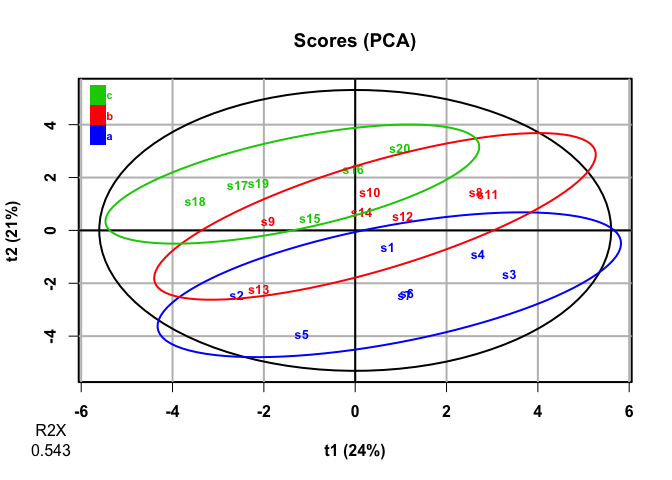
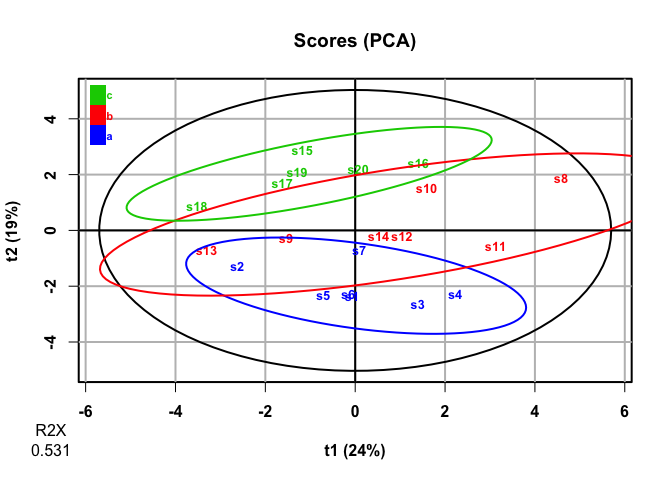
update README

diff --git a/README.md b/README.md
@@ -1,16 +1,15 @@
 
 <!-- README.md is generated from README.Rmd. Please edit that file -->
+<!-- badges: start -->
 
-[![Build
-Status](https://travis-ci.org/Aariq/holodeck.svg?branch=master)](https://travis-ci.org/Aariq/holodeck)
+[![R-CMD-check](https://github.com/Aariq/holodeck/actions/workflows/R-CMD-check.yaml/badge.svg)](https://github.com/Aariq/holodeck/actions/workflows/R-CMD-check.yaml)
 [![codecov](https://codecov.io/gh/Aariq/holodeck/branch/master/graph/badge.svg)](https://codecov.io/gh/Aariq/holodeck)
 [![DOI](https://zenodo.org/badge/167047376.svg)](https://zenodo.org/badge/latestdoi/167047376)
 [![CRAN](https://www.r-pkg.org/badges/version/holodeck)](https://CRAN.R-project.org/package=holodeck)
 ![downloads](http://cranlogs.r-pkg.org/badges/grand-total/holodeck)
-[![AppVeyor build
-status](https://ci.appveyor.com/api/projects/status/github/Aariq/holodeck?branch=master&svg=true)](https://ci.appveyor.com/project/Aariq/holodeck)
+<!-- badges: end -->
 
-# holodeck 0.2.1: A Tidy Interface For Simulating Multivariate Data
+# holodeck: A Tidy Interface For Simulating Multivariate Data
 
 `holodeck` allows quick and simple creation of simulated multivariate
 data with variables that co-vary or discriminate between levels of a
@@ -27,11 +26,10 @@ From CRAN:
 install.packages("holodeck)
 ```
 
-Development version:
+Development version from r-universe:
 
 ``` r
-# install.packages("remotes")
-remotes::install_github("Aariq/holodeck")
+install.packages('holodeck', repos = c('https://aariq.r-universe.dev', 'https://cloud.r-project.org'))
 ```
 
 ## Load packages
@@ -91,33 +89,33 @@ df2 <-
   sim_missing(prop = 0.1) %>% 
   ungroup()
 df2
-#> # A tibble: 20 x 21
+#> # A tibble: 20 × 21
 #>    factor high_cov_1 high_cov_2 high_cov_3 high_cov_4 high_cov_5 high_var_1
 #>    <chr>       <dbl>      <dbl>      <dbl>      <dbl>      <dbl>      <dbl>
-#>  1 a           0.472   -0.362       0.253      0.281       0.247    -1.54  
-#>  2 a          -1.50    -1.65       NA         -1.93       -1.27      1.00  
-#>  3 a           1.13     0.655       0.980      1.41        0.345    -1.90  
-#>  4 a           0.982    0.740       1.16       1.14        0.866     1.71  
-#>  5 a          -0.773   NA          -1.22      -1.21       -1.25     -0.576 
-#>  6 a           0.302    0.130      -0.309      0.0725     NA        NA     
-#>  7 a          -0.117    0.00163     0.0596    -0.542      -0.269     2.87  
-#>  8 b           2.16     2.47       NA          1.62       NA         0.146 
-#>  9 b          -0.268   -0.509      -0.529     -0.842      -1.04     NA     
-#> 10 b           0.609    0.195       0.720      0.930       0.595     0.0765
-#> 11 b           1.81    NA           1.43       1.09        1.39     -0.927 
-#> 12 b           0.954    0.234       0.247      0.248       0.751     2.77  
-#> 13 b          -1.03    -1.24       -1.70      NA          -1.64      1.34  
-#> 14 b          -0.180    0.380       0.177      0.433       0.550     1.20  
-#> 15 c          -0.214   -0.390      -0.476     -0.878      -0.328     3.18  
-#> 16 c           0.827    0.556       0.620      0.491      NA         1.91  
-#> 17 c          -0.399   -0.862      -0.385     -0.935      -0.802    -0.787 
-#> 18 c          -1.09    -1.32       -0.720     NA          -1.76     -1.76  
-#> 19 c          -0.181   -0.155      -0.774      0.0395     -0.770     0.741 
-#> 20 c           0.882   NA           0.758      1.24        0.838     0.182 
-#> # … with 14 more variables: high_var_2 <dbl>, high_var_3 <dbl>,
-#> #   high_var_4 <dbl>, high_var_5 <dbl>, discr_1 <dbl>, discr_2 <dbl>,
-#> #   discr_3 <dbl>, discr_4 <dbl>, discr_5 <dbl>, discr2_1 <dbl>,
-#> #   discr2_2 <dbl>, discr2_3 <dbl>, discr2_4 <dbl>, discr2_5 <dbl>
+#>  1 a           0.472   -0.362       0.253      0.281      NA        -0.0873
+#>  2 a          -1.50    -1.65       -1.47      -1.93       NA        NA     
+#>  3 a           1.13    NA          NA          1.41        0.345     0.871 
+#>  4 a           0.982    0.740       1.16       1.14        0.866    NA     
+#>  5 a          -0.773   NA          NA         -1.21       -1.25     -1.53  
+#>  6 a           0.302    0.130      -0.309      0.0725      0.725     0.890 
+#>  7 a          -0.117    0.00163     0.0596    -0.542      -0.269    NA     
+#>  8 b           2.16     2.47        1.38       1.62        1.62     -2.43  
+#>  9 b          NA       -0.509      -0.529     -0.842      -1.04      1.25  
+#> 10 b           0.609    0.195       0.720      0.930       0.595    -0.562 
+#> 11 b           1.81     1.15        1.43       1.09        1.39     -0.934 
+#> 12 b           0.954    0.234       0.247      0.248       0.751     1.95  
+#> 13 b          -1.03    NA          -1.70      -1.27       -1.64      0.670 
+#> 14 b          NA        0.380       0.177     NA           0.550     2.68  
+#> 15 c          -0.214   -0.390      -0.476     -0.878      -0.328     0.665 
+#> 16 c           0.827    0.556       0.620      0.491       0.814    -0.0121
+#> 17 c          -0.399   -0.862      -0.385     -0.935      -0.802    NA     
+#> 18 c          -1.09    -1.32       -0.720     -1.88       -1.76     -2.05  
+#> 19 c          -0.181   -0.155      -0.774      0.0395     -0.770     1.81  
+#> 20 c           0.882   NA           0.758      1.24       NA         1.11  
+#> # ℹ 14 more variables: high_var_2 <dbl>, high_var_3 <dbl>, high_var_4 <dbl>,
+#> #   high_var_5 <dbl>, discr_1 <dbl>, discr_2 <dbl>, discr_3 <dbl>,
+#> #   discr_4 <dbl>, discr_5 <dbl>, discr2_1 <dbl>, discr2_2 <dbl>,
+#> #   discr2_3 <dbl>, discr2_4 <dbl>, discr2_5 <dbl>
 ```
 
 ### PCA
@@ -135,40 +133,39 @@ plot(pca, parAsColFcVn = df2$factor, typeVc = "x-score")
 getLoadingMN(pca) %>%
   as_tibble(rownames = "variable") %>% 
   arrange(desc(abs(p1)))
-#> # A tibble: 20 x 4
+#> # A tibble: 20 × 4
 #>    variable         p1      p2       p3
 #>    <chr>         <dbl>   <dbl>    <dbl>
-#>  1 high_cov_1  0.377    0.194   0.0800 
-#>  2 high_cov_4  0.375    0.215   0.0202 
-#>  3 high_cov_3  0.368    0.225   0.133  
-#>  4 high_cov_5  0.362    0.186  -0.0539 
-#>  5 high_cov_2  0.348    0.227   0.0108 
-#>  6 discr_1    -0.306    0.219   0.0135 
-#>  7 discr2_1    0.290    0.0895 -0.322  
-#>  8 discr_4    -0.220    0.329  -0.120  
-#>  9 high_var_3  0.169   -0.142   0.184  
-#> 10 discr_3    -0.157    0.324  -0.176  
-#> 11 discr2_5   -0.153    0.242   0.318  
-#> 12 discr_2    -0.116    0.350  -0.210  
-#> 13 discr2_4   -0.0572   0.212   0.292  
-#> 14 discr2_2    0.0518  -0.133  -0.0374 
-#> 15 discr2_3   -0.0513   0.0717  0.00649
-#> 16 high_var_2 -0.0512  -0.0938 -0.442  
-#> 17 discr_5    -0.0448   0.424  -0.0118 
-#> 18 high_var_4 -0.0236   0.220   0.0444 
-#> 19 high_var_5  0.00619  0.0503 -0.434  
-#> 20 high_var_1 -0.00483 -0.0231 -0.414
+#>  1 high_cov_2  0.415    0.0534  0.0137 
+#>  2 high_cov_1  0.407    0.0383  0.0208 
+#>  3 high_cov_5  0.401    0.0163  0.104  
+#>  4 high_cov_3  0.400    0.0301 -0.0837 
+#>  5 high_cov_4  0.387    0.0218  0.00556
+#>  6 discr_5    -0.224    0.262  -0.136  
+#>  7 high_var_2 -0.195    0.0848  0.240  
+#>  8 discr2_1    0.167    0.396  -0.167  
+#>  9 discr_2    -0.163    0.322  -0.202  
+#> 10 high_var_5  0.115   -0.132   0.261  
+#> 11 discr2_5    0.0967   0.267   0.114  
+#> 12 high_var_1 -0.0930  -0.0102  0.457  
+#> 13 discr2_4    0.0834   0.308   0.0924 
+#> 14 discr_3    -0.0627   0.376  -0.0152 
+#> 15 discr2_2   -0.0412   0.138   0.539  
+#> 16 discr_1    -0.0407   0.319   0.0471 
+#> 17 discr2_3   -0.0394   0.176  -0.358  
+#> 18 discr_4     0.0363   0.400   0.144  
+#> 19 high_var_3 -0.0101  -0.0629  0.0483 
+#> 20 high_var_4 -0.00471  0.131   0.308
 ```
 
 It looks like PCA mostly picks up on the variables with high covariance,
 **not** the variables that discriminate among levels of `factor`. This
-makes sense, as PCA is an unsupervised
-analysis.
+makes sense, as PCA is an unsupervised analysis.
 
 ### PLS-DA
 
 ``` r
-plsda <- opls(select(df2, -factor), df2$factor, predI = 2, fig.pdfC = "none", info.txtC = "none")
+plsda <- opls(select(df2, -factor), df2$factor, predI = 2, permI = 10, fig.pdfC = "none", info.txtC = "none")
 
 plot(plsda, typeVc = "x-score")
 ```
@@ -180,29 +177,29 @@ plot(plsda, typeVc = "x-score")
 getVipVn(plsda) %>% 
   tibble::enframe(name = "variable", value = "VIP") %>% 
   arrange(desc(VIP))
-#> # A tibble: 20 x 2
-#>    variable     VIP
-#>    <chr>      <dbl>
-#>  1 discr_5    1.73 
-#>  2 discr_2    1.66 
-#>  3 discr_4    1.56 
-#>  4 discr_3    1.51 
-#>  5 discr_1    1.46 
-#>  6 discr2_5   1.06 
-#>  7 discr2_3   0.986
-#>  8 discr2_4   0.935
-#>  9 high_cov_4 0.817
-#> 10 high_cov_2 0.749
-#> 11 high_cov_1 0.734
-#> 12 high_var_3 0.725
-#> 13 discr2_2   0.702
-#> 14 high_var_4 0.697
-#> 15 high_cov_5 0.671
-#> 16 discr2_1   0.629
-#> 17 high_cov_3 0.328
-#> 18 high_var_1 0.327
-#> 19 high_var_5 0.276
-#> 20 high_var_2 0.199
+#> # A tibble: 20 × 2
+#>    variable      VIP
+#>    <chr>       <dbl>
+#>  1 discr_4    1.54  
+#>  2 discr_1    1.48  
+#>  3 discr_2    1.47  
+#>  4 discr_5    1.44  
+#>  5 discr_3    1.42  
+#>  6 discr2_1   1.31  
+#>  7 discr2_4   1.09  
+#>  8 high_cov_2 1.08  
+#>  9 discr2_3   0.996 
+#> 10 high_cov_1 0.944 
+#> 11 discr2_2   0.884 
+#> 12 high_cov_5 0.790 
+#> 13 discr2_5   0.650 
+#> 14 high_var_5 0.639 
+#> 15 high_var_2 0.582 
+#> 16 high_cov_4 0.530 
+#> 17 high_cov_3 0.423 
+#> 18 high_var_4 0.358 
+#> 19 high_var_1 0.200 
+#> 20 high_var_3 0.0860
 ```
 
 PLS-DA, a supervised analysis, finds discrimination among groups and
